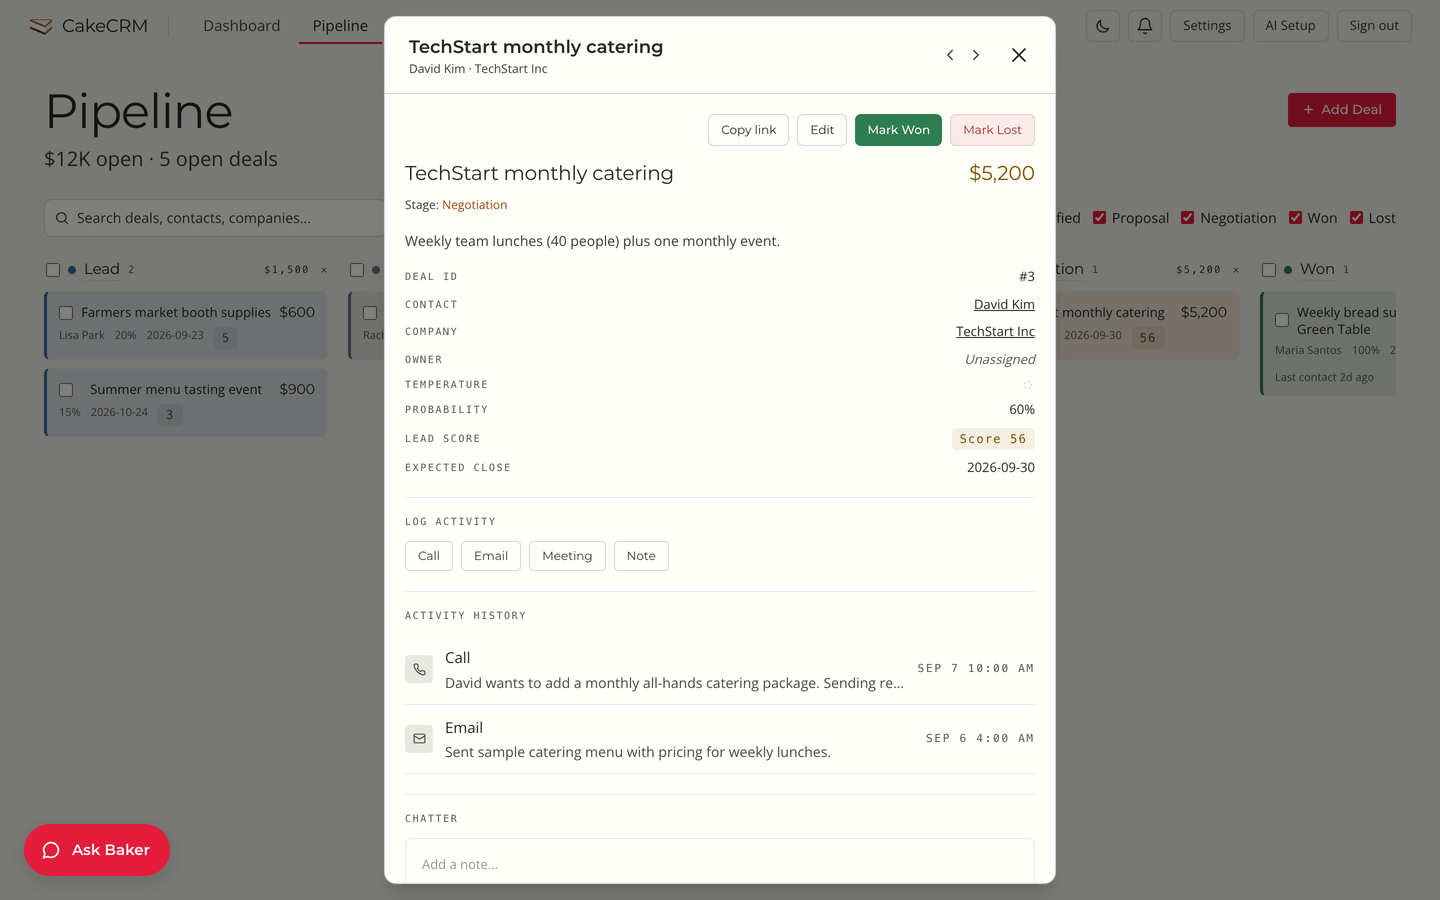
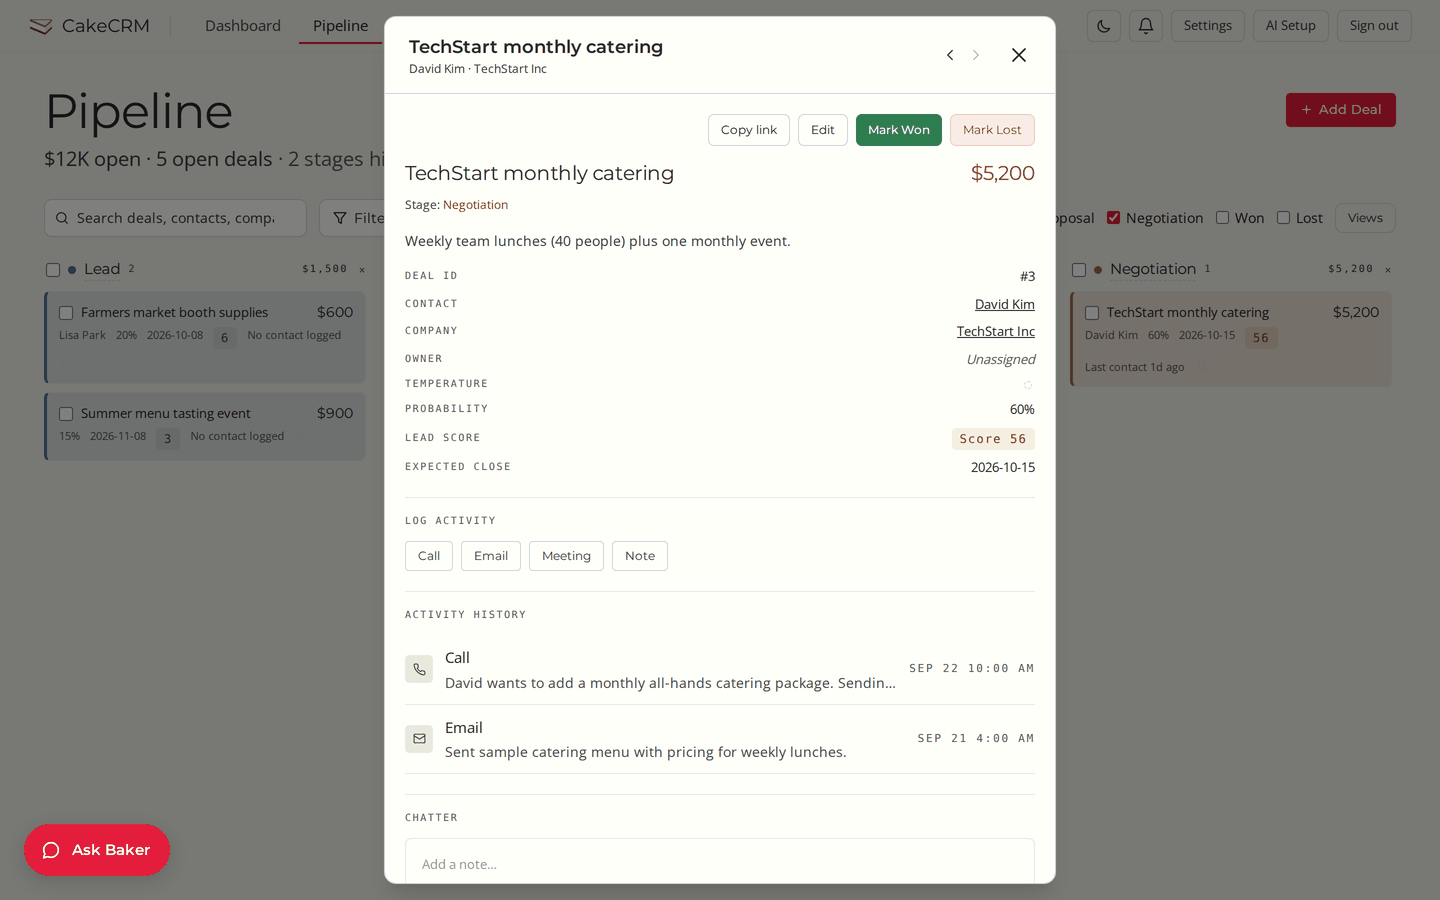
Site screenshots re-shot on current main; copy re-read against the app
Same four views, same process: the demo instance reset to the fictional sample
data, Playwright at 1440×900 light at 2×, WebP q82 at 2880 wide with a 1440
palettised PNG fallback. Since the last shoot ~25 PRs changed what the app shows:
the nav reads Todos and has a Reports tab, the dashboard leads with the Today
panel, the board hides Won/Lost by default and its cards carry close date, last
contact and lead score at the roomy density tier, the deal sheet shows owner and
temperature, and the drawer offers the two coaching chips. The Baker shot is a
fresh answer to the same deal-scoped quick action.

Copy changes, each backed by a shipped feature: the board paragraph says closed
stages stay tucked away and that a filter becomes a saved view the team can use
(#124, #181); the Baker paragraph says the answer is grounded in the card and that
it has read the manual (#201, #143); reports join the zero-keys list (#144); the
Telegram bullet says one bot, a link per person (#193); step 3 points at AI Setup,
which is where the key actually goes. Alt text follows the pixels: no Won column
on the board, owner and temperature on the deal, and what Baker's answer contains.

diff --git a/website/index.html b/website/index.html
@@ -76,12 +76,12 @@
       <div class="tour-text">
         <p class="tour-num">02</p>
         <h3>Your pipeline is a board. Drag the card.</h3>
-        <p>Every open deal on one screen, in the stage it is in, with the value and the next date on the card. Moving a deal is a drag. That is the entire workflow.</p>
+        <p>Every open deal on one screen, in the stage it is in, with the value, the close date and the last contact on the card. Won and lost stay tucked away until you ask. Moving a deal is a drag; a filter you keep coming back to becomes a saved view the whole team can use. That is the entire workflow.</p>
       </div>
       <figure class="frame">
         <picture>
           <source srcset="img/pipeline.webp" type="image/webp">
-          <img src="img/pipeline.png" width="1440" height="900" loading="lazy" alt="The CakeCRM pipeline board: deals as cards in Lead, Qualified, Proposal, Negotiation and Won columns, with values and probabilities on each card.">
+          <img src="img/pipeline.png" width="1440" height="900" loading="lazy" alt="The CakeCRM pipeline board: open deals as cards in Lead, Qualified, Proposal and Negotiation columns, each showing its value, probability, close date, lead score and last contact, with the Won and Lost stages hidden.">
         </picture>
       </figure>
     </div>
@@ -95,7 +95,7 @@
       <figure class="frame">
         <picture>
           <source srcset="img/deal.webp" type="image/webp">
-          <img src="img/deal.png" width="1440" height="900" loading="lazy" alt="A deal card open over the CakeCRM pipeline: title, value, stage, contact, probability, lead score and expected close, then the activity history and a note box.">
+          <img src="img/deal.png" width="1440" height="900" loading="lazy" alt="A deal card open over the CakeCRM pipeline: title, value, stage, contact, company, owner, temperature, probability, lead score and expected close, then Call, Email, Meeting and Note buttons, the activity history and a note box.">
         </picture>
       </figure>
     </div>
@@ -104,12 +104,12 @@
       <div class="tour-text">
         <p class="tour-num">04</p>
         <h3>Ask Baker. <span class="muted">Optional.</span></h3>
-        <p>Add any AI provider key and Baker reads the deal you have open, checks its health, and tells you the next step in plain words. It can log the call, put a follow-up draft in your Gmail Drafts, and nudge you when a deal goes quiet. In Ask mode, which is how Baker starts, every write waits for your approval &mdash; there is an Auto mode that runs them without asking, and switching it on is your call. Skip the key and the CRM is still the whole CRM.</p>
+        <p>Add any AI provider key and Baker reads the deal you have open, checks its health, and tells you the next step in plain words, grounded in what is actually on the card. It can log the call, put a follow-up draft in your Gmail Drafts, and nudge you when a deal goes quiet. It has read the manual too, so &ldquo;how do I&hellip;&rdquo; gets answered without leaving the page. In Ask mode, which is how Baker starts, every write waits for your approval &mdash; there is an Auto mode that runs them without asking, and switching it on is your call. Skip the key and the CRM is still the whole CRM.</p>
       </div>
       <figure class="frame">
         <picture>
           <source srcset="img/deal-baker.webp" type="image/webp">
-          <img src="img/deal-baker.png" width="1440" height="900" loading="lazy" alt="A deal open in CakeCRM with the Baker assistant drawer beside it, answering 'What should my next step be on this deal?' with a summary of where the deal stands and a recommended call.">
+          <img src="img/deal-baker.png" width="1440" height="900" loading="lazy" alt="A deal open in CakeCRM with the Baker assistant drawer beside it, answering 'What should my next step be on this deal?' with the follow-up that is already scheduled, why it is the right move, and what to cover on that call.">
         </picture>
       </figure>
     </div>
@@ -135,7 +135,7 @@
       </li>
       <li>
         <h3>Works with zero AI keys</h3>
-        <p>Contacts, companies, pipeline, todos and CSV import all run with no AI configured. The assistant is a feature you switch on, not a gate.</p>
+        <p>Contacts, companies, pipeline, todos, reports and CSV import all run with no AI configured. The assistant is a feature you switch on, not a gate.</p>
       </li>
       <li>
         <h3>Bring any model</h3>
@@ -147,7 +147,7 @@
       </li>
       <li>
         <h3>Talk to it from your phone</h3>
-        <p>Link a Telegram bot and ask about a deal, log a call or capture a todo from wherever you are. Confirmations arrive as Approve / Deny buttons.</p>
+        <p>Connect one Telegram bot, and each person on the team links their own chat to ask about a deal, log a call or capture a todo from wherever they are. Confirmations arrive as Approve / Deny buttons.</p>
       </li>
     </ul>
   </div>
@@ -164,7 +164,7 @@
     <ol class="steps">
       <li><strong>Deploy.</strong> Click the Railway button and set a password. Railway provisions PostgreSQL and starts CakeCRM. Prefer your own hardware? <code>python run.py</code> starts everything locally with Postgres in Docker.</li>
       <li><strong>Sign in.</strong> Load the sample data to look around, or import your contacts from CSV.</li>
-      <li><strong>Optionally, hire Baker.</strong> Paste an AI provider key in Settings. Skip this step and the CRM is still the whole CRM.</li>
+      <li><strong>Optionally, hire Baker.</strong> Paste an AI provider key under AI Setup. Skip this step and the CRM is still the whole CRM.</li>
     </ol>
     <div class="actions">
       <a href="https://railway.com/deploy/cakecrm?referralCode=HMgK-M" class="btn btn-primary" rel="noopener">Deploy on Railway</a>
